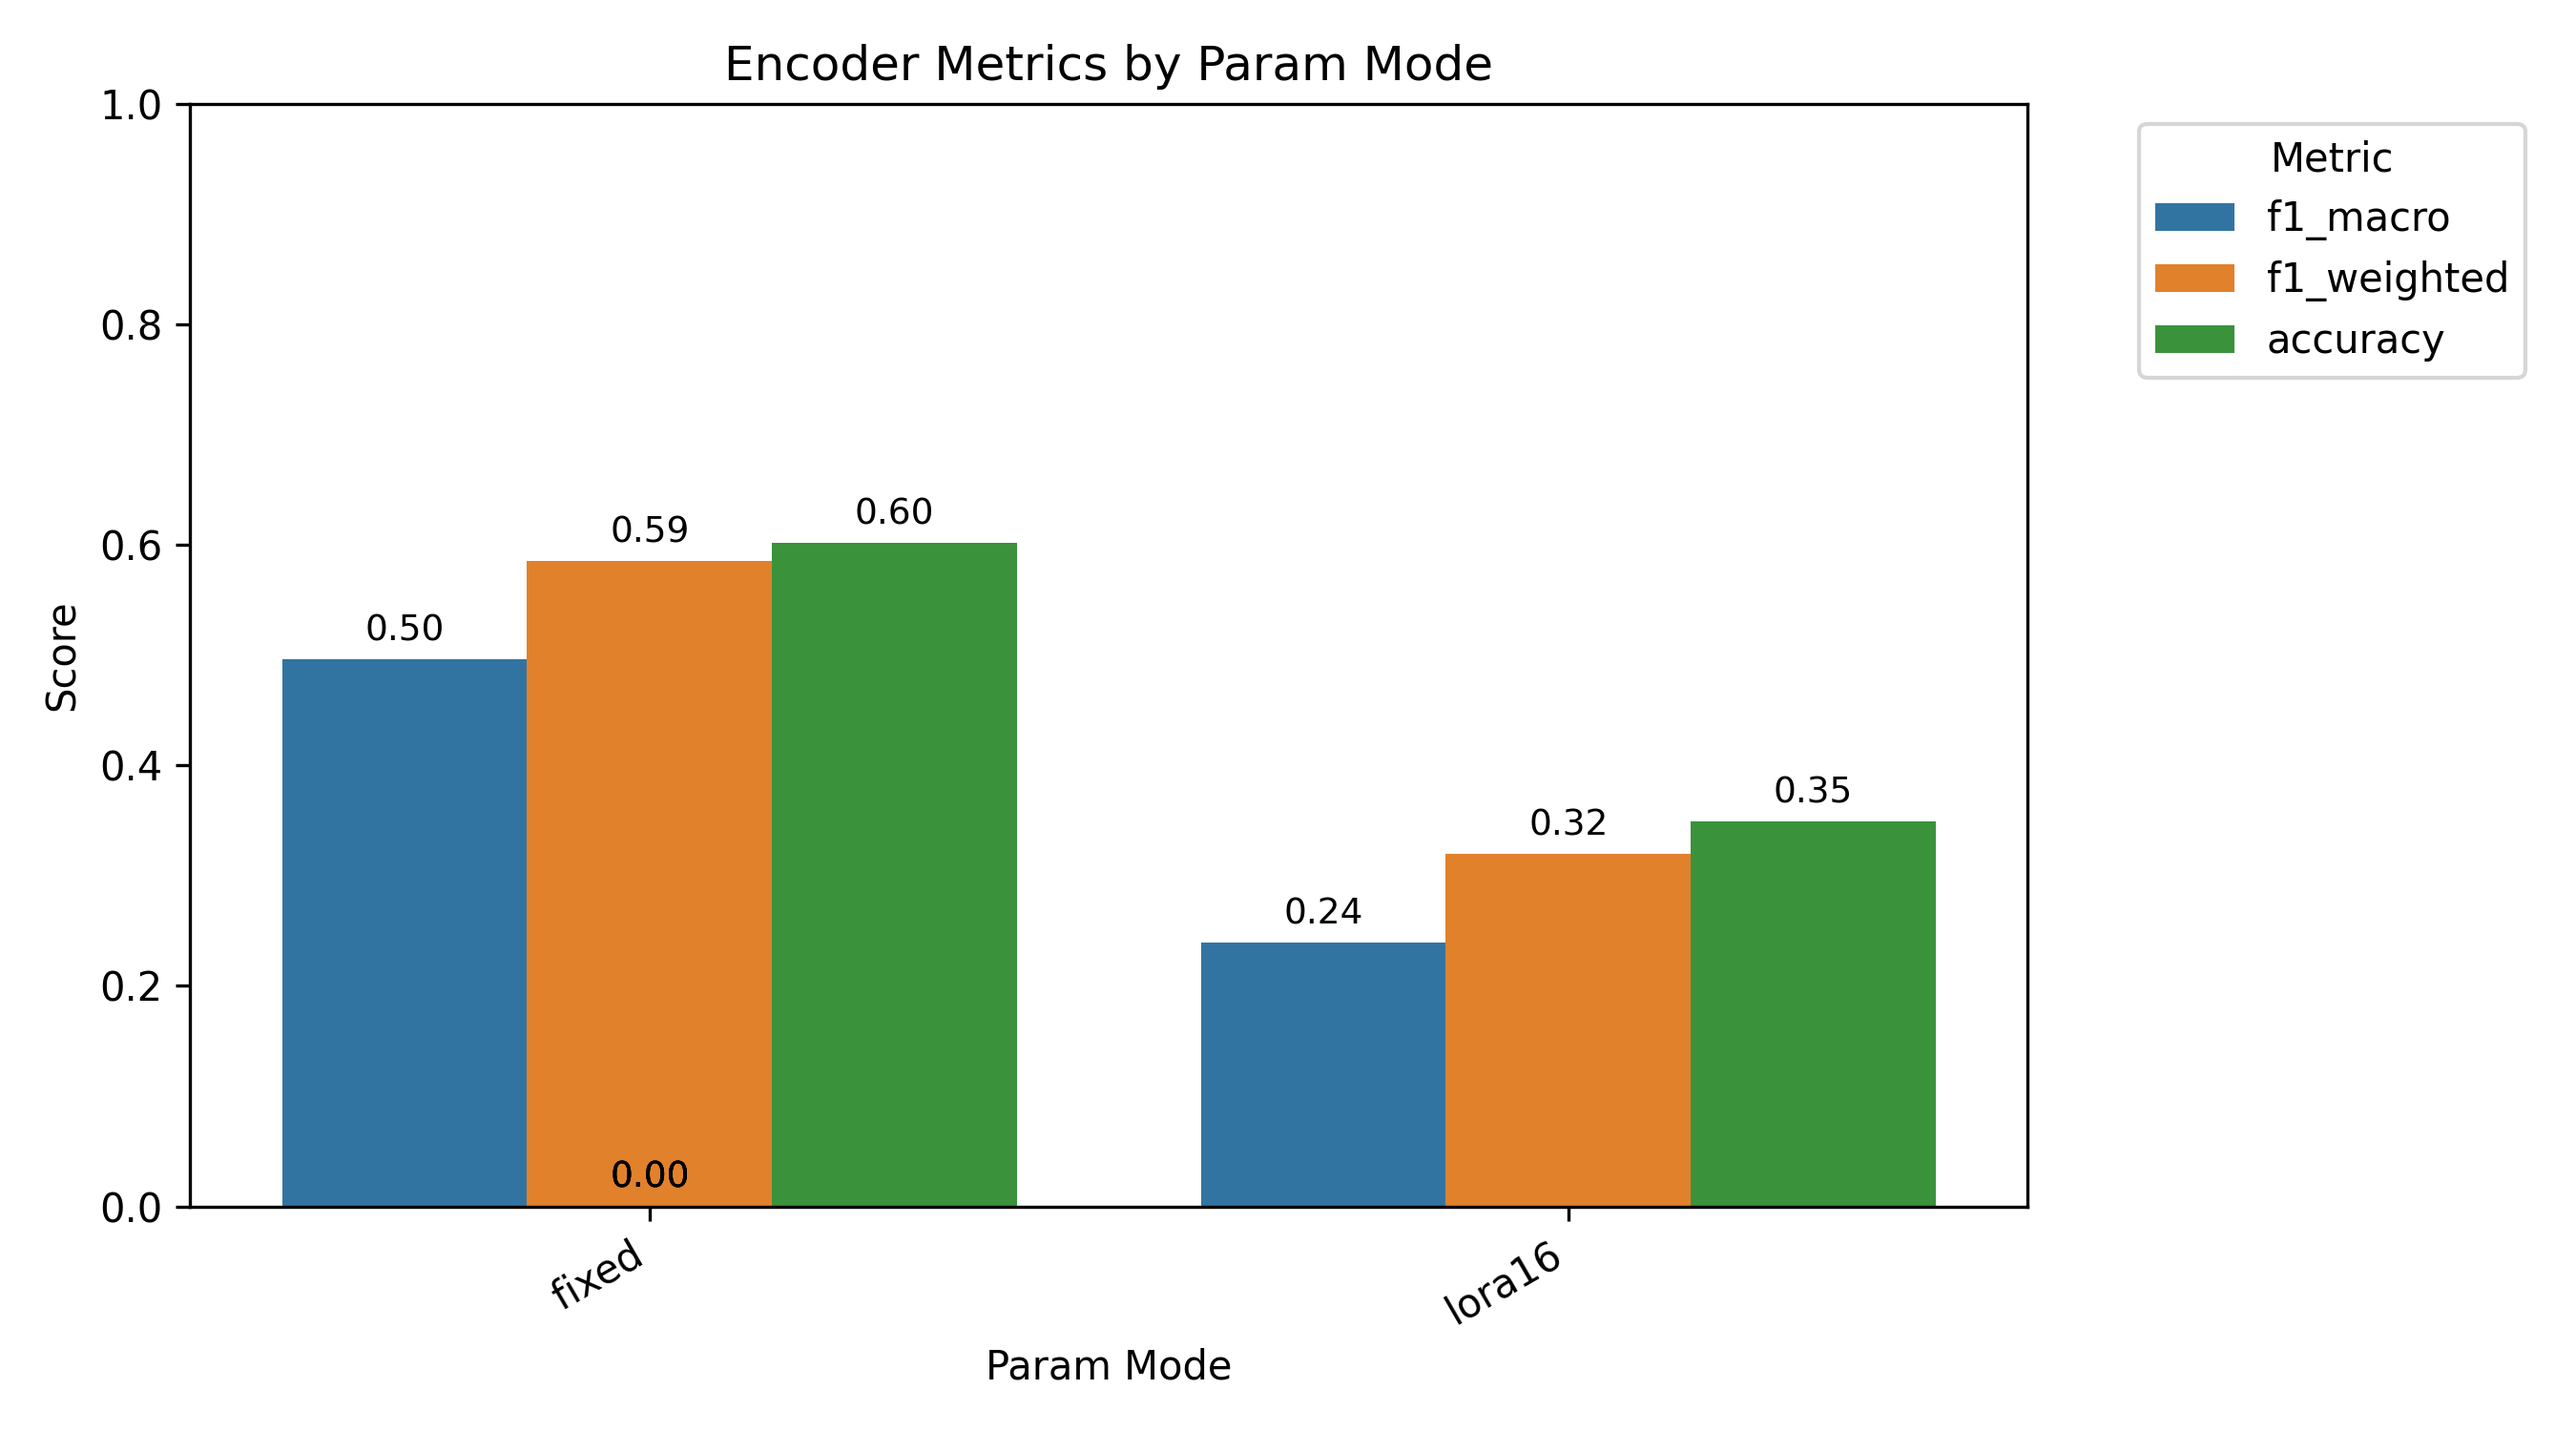
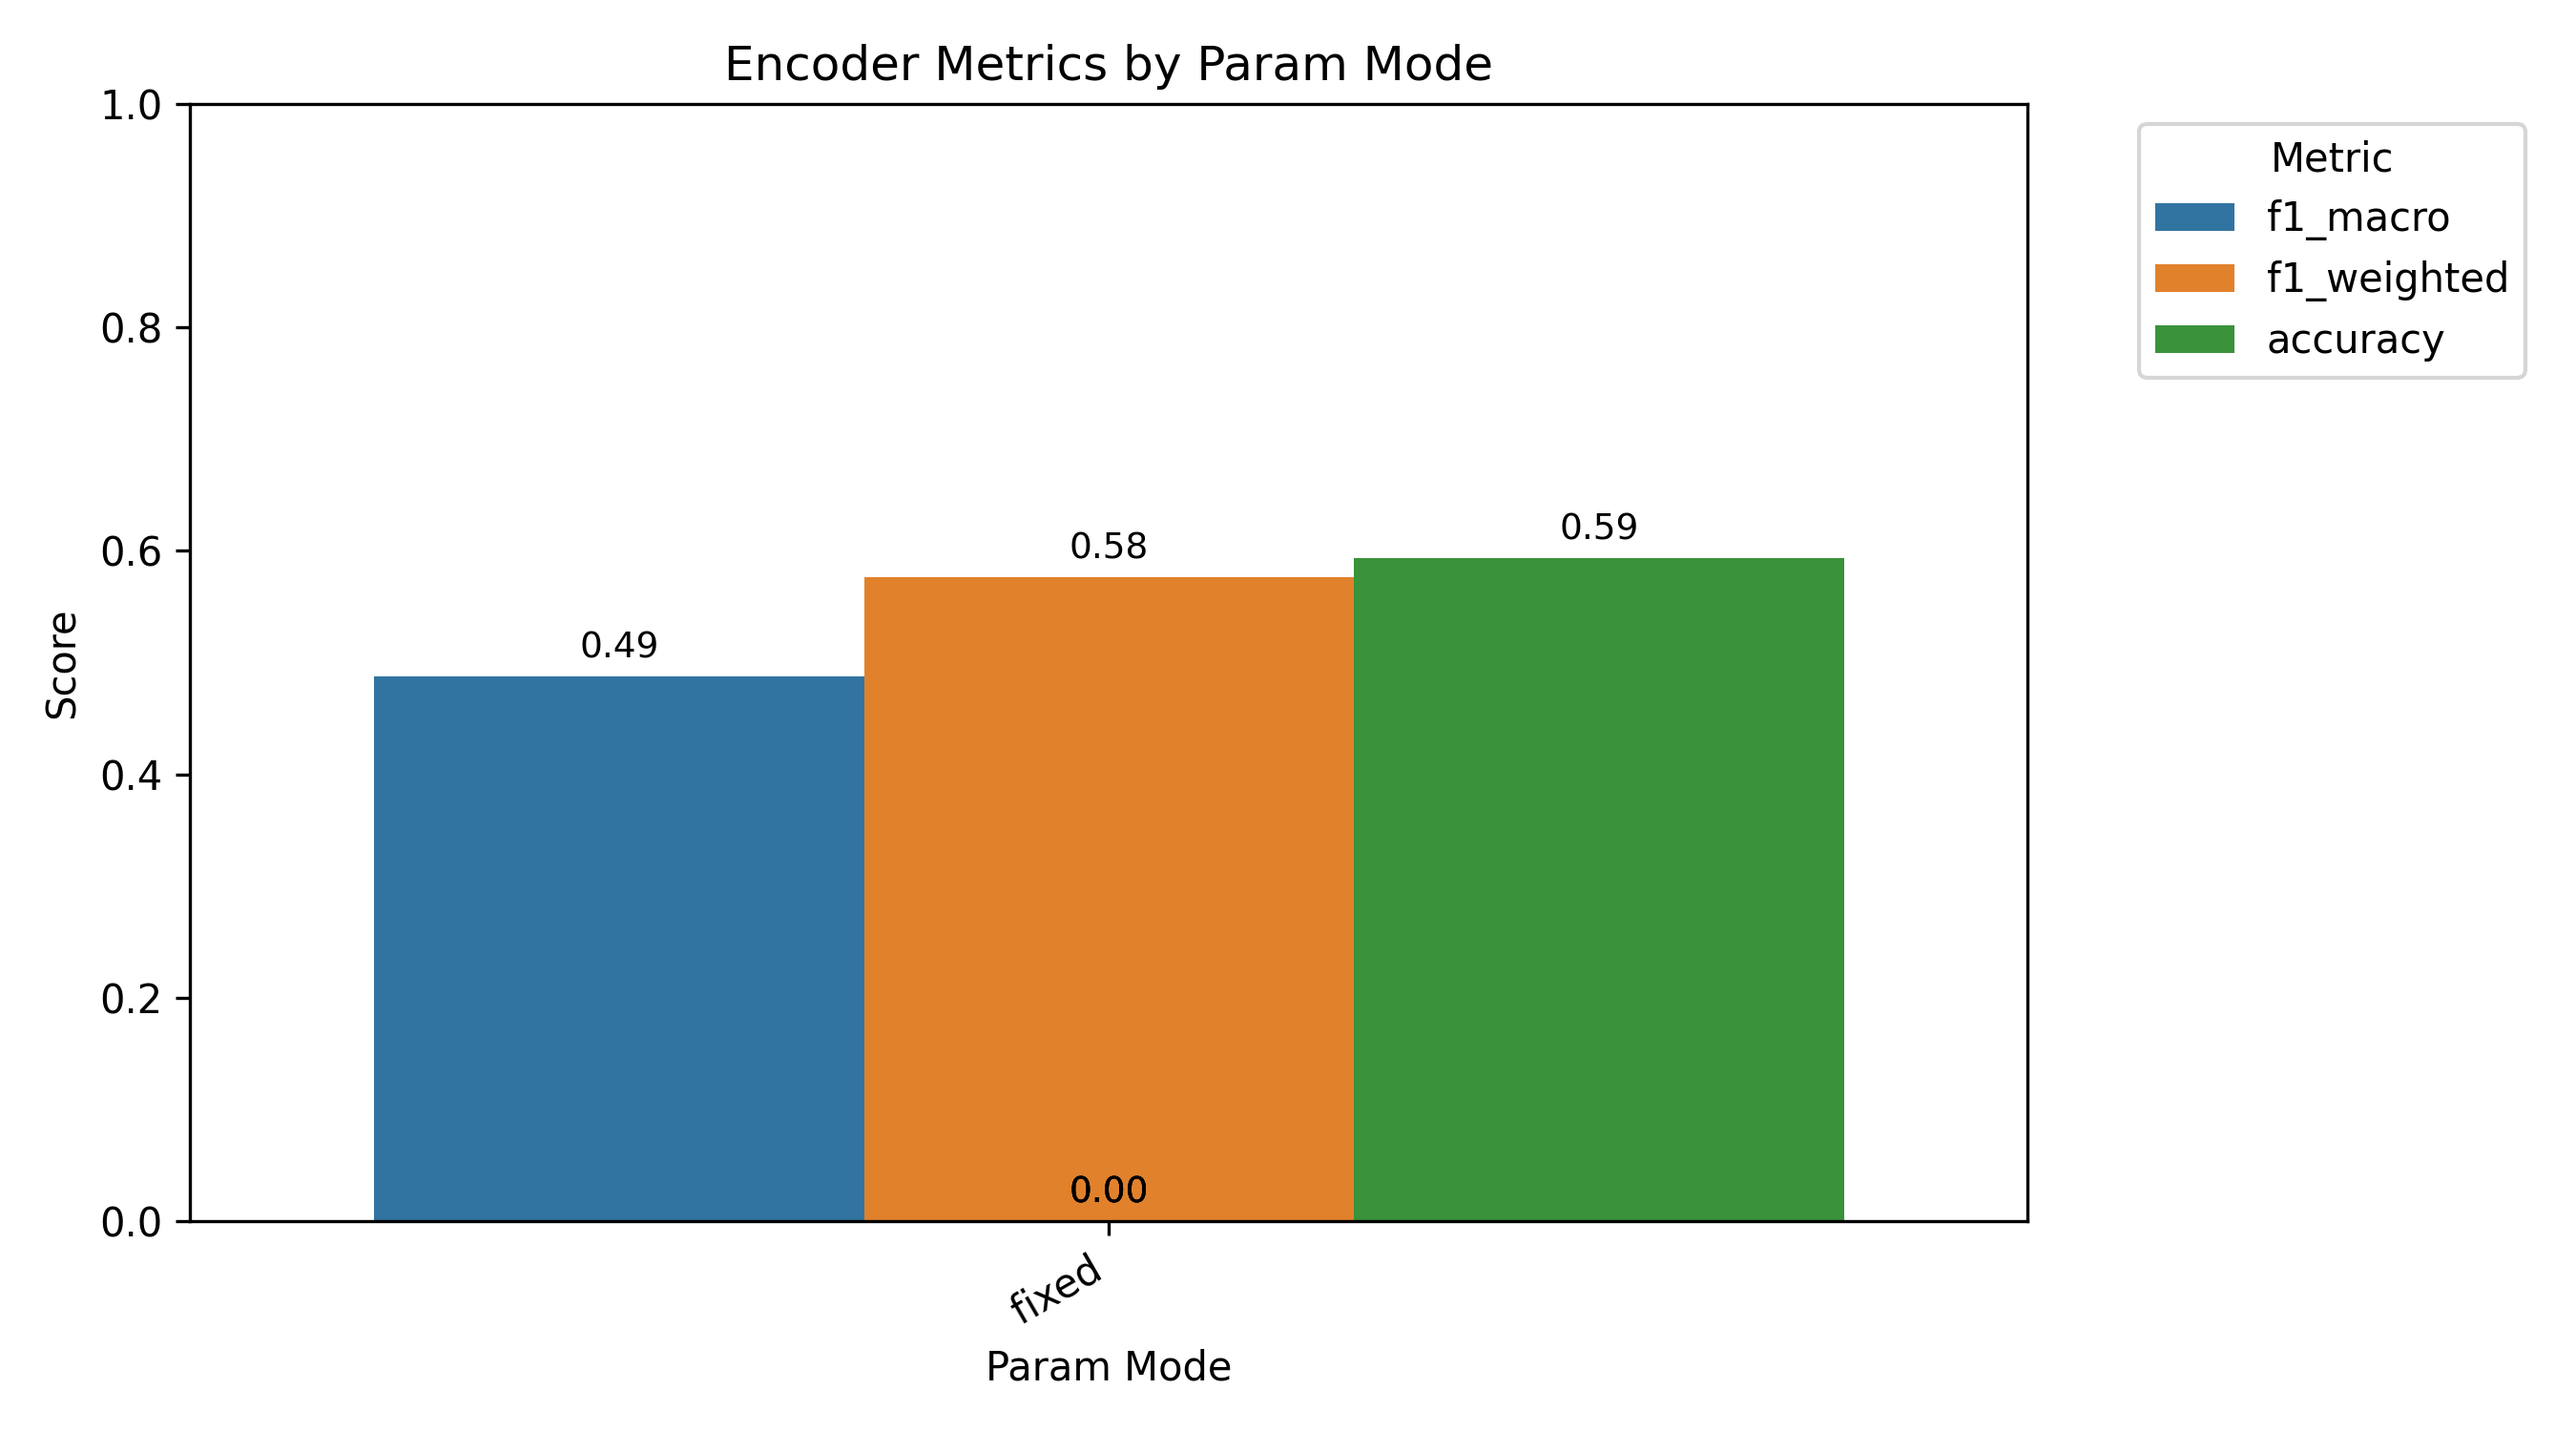
restructuring

diff --git a/models/encoders/s1_encoder_adaptation/unfreeze2-with-lora.py b/models/encoders/s1_encoder_adaptation/unfreeze2-with-lora.py
@@ -733,7 +733,7 @@ def _build_output_slug(model_name: str, param_mode: str) -> str:
         )
     meta = MODEL_METADATA[model_name]
     head_type = "defaultHead"
-    lora_tag = f"top{TOP_K_TRAINABLE_LAYERS}_lora{LORA_R}"
+    lora_tag = f"top{TOP_K_TRAINABLE_LAYERS}-lora{LORA_R}"
     slug = (
         f"{TASK_ID}_{meta['arch']}_{meta['lang']}_{meta['size']}"
         f"_{lora_tag}_{param_mode}_{head_type}"
